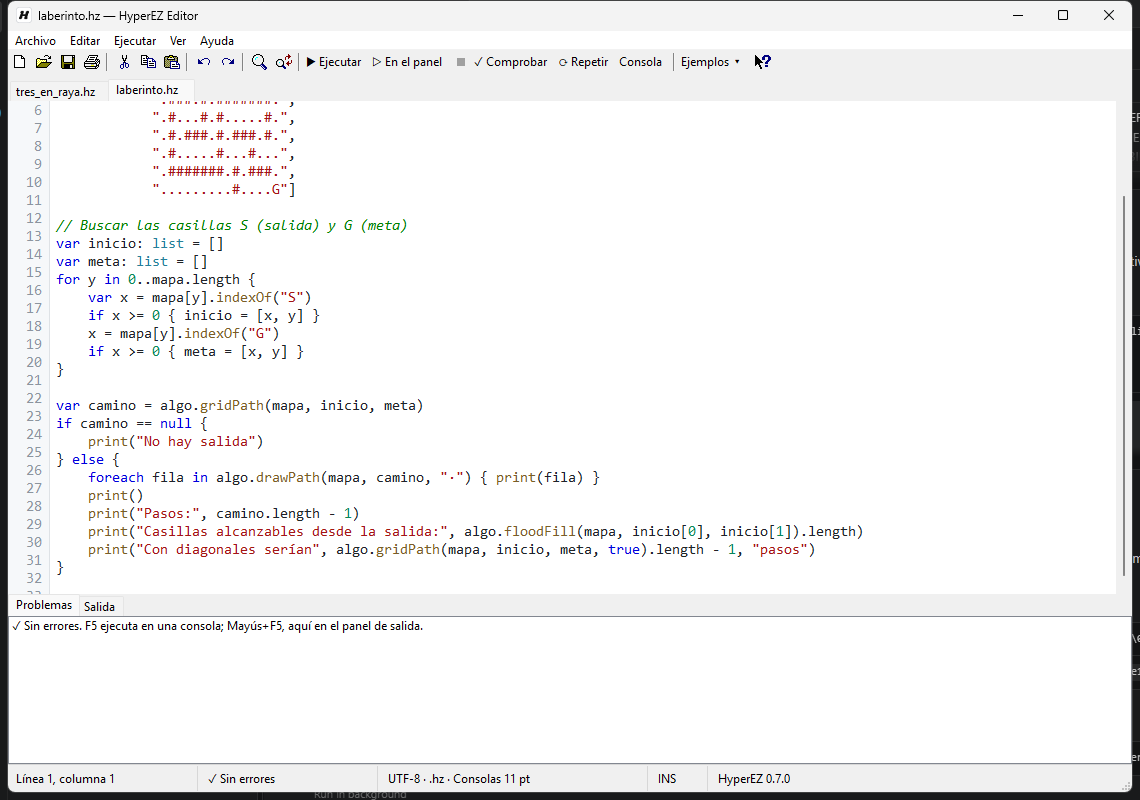
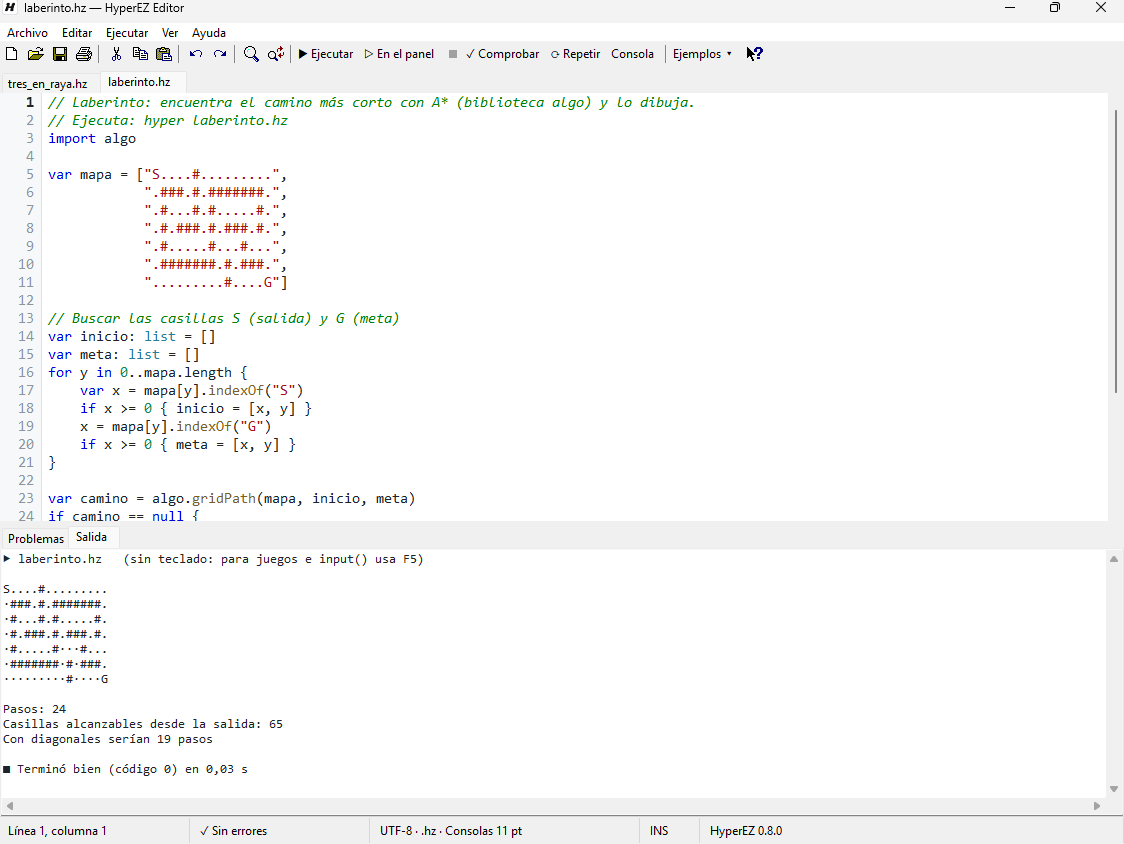
HyperEZ Editor: separador arrastrable y capturas de la 0.8.0
- El panel de abajo (Problemas y Salida) cambia de alto arrastrando la
  franja que lo separa del código; el alto se guarda con los ajustes.
- Capturas nuevas del editor y del instalador de la 0.8.0.
- build.ps1 ya no avisa al enlazar con LTO en Windows: una sola partición
  en el enlace final y ninguna en el ejecutable instrumentado de PGO.
- La documentación refleja que el repositorio ya es público.

diff --git a/src/editor/editor.cpp b/src/editor/editor.cpp
@@ -76,6 +76,9 @@ ITextDocument* g_doc = nullptr;
 int g_dpi = 96;
 int g_fontPt = 11;
 bool g_wrap = false, g_showPanel = true, g_showNumbers = true;
+int g_panelHeight = 170;            // alto del panel de abajo (en píxeles a 96 ppp)
+int g_splitTop = -1, g_splitBottom = -1; // franja del separador arrastrable (en la ventana)
+bool g_splitDrag = false;
 std::wstring g_file;   // vacío = sin título
 bool g_dirty = false;
 std::wstring g_savedText; // texto tal como está guardado (para saber si hay cambios)
@@ -204,6 +207,7 @@ void loadSettings() {
     g_showNumbers = readDword(L"LineNumbers", 1) != 0;
     g_showToolbar = readDword(L"Toolbar", 1) != 0;
     g_showStatus = readDword(L"StatusBar", 1) != 0;
+    g_panelHeight = (int)std::clamp<DWORD>(readDword(L"PanelHeight", 170), 60, 2000);
     {
         wchar_t face[LF_FACESIZE];
         DWORD fsz = sizeof face;
@@ -224,6 +228,7 @@ void saveSettings() {
     writeDword(L"LineNumbers", g_showNumbers);
     writeDword(L"Toolbar", g_showToolbar);
     writeDword(L"StatusBar", g_showStatus);
+    writeDword(L"PanelHeight", (DWORD)g_panelHeight);
     HKEY k;
     if (RegCreateKeyExW(HKEY_CURRENT_USER, kKey, 0, nullptr, 0, KEY_WRITE, nullptr, &k, nullptr) == ERROR_SUCCESS) {
         for (int i = 0; i < 10; i++) {
@@ -617,12 +622,19 @@ void layout() {
         MoveWindow(g_tabs, 0, top, rc.right, th, TRUE);
         top += th;
     }
-    int panelH = g_showPanel ? S(170) : 0;
+    // El panel de abajo se puede agrandar arrastrando el separador; el código conserva al menos S(80)
+    int gap = g_showPanel ? S(5) : 0;
+    int panelH = 0;
+    if (g_showPanel) panelH = std::max(S(60), std::min(S(g_panelHeight), (int)rc.bottom - statusH - top - gap - S(80)));
     int bottom = rc.bottom - statusH - panelH;
+    int editBottom = std::max(top, bottom - gap);
+    g_splitTop = g_showPanel ? editBottom : -1;
+    g_splitBottom = g_showPanel ? bottom : -1;
     int gw = gutterWidth();
-    MoveWindow(g_gutter, 0, top, gw, bottom - top, TRUE);
+    MoveWindow(g_gutter, 0, top, gw, editBottom - top, TRUE);
     ShowWindow(g_gutter, g_showNumbers ? SW_SHOW : SW_HIDE);
-    if (g_edit) MoveWindow(g_edit, gw, top, rc.right - gw, bottom - top, TRUE);
+    if (g_edit) MoveWindow(g_edit, gw, top, rc.right - gw, editBottom - top, TRUE);
+    if (g_showPanel) { RECT gr{0, editBottom, rc.right, bottom}; InvalidateRect(g_wnd, &gr, TRUE); } // la franja del separador
     if (g_bottomTabs) {
         ShowWindow(g_bottomTabs, g_showPanel ? SW_SHOW : SW_HIDE);
         int bh = tabStripHeight(g_bottomTabs, rc.right);
@@ -2096,6 +2108,51 @@ LRESULT CALLBACK wndProc(HWND h, UINT msg, WPARAM wp, LPARAM lp) {
         }
         case WM_SIZE: layout(); return 0;
         case WM_SETFOCUS: SetFocus(g_edit); return 0;
+        // Separador entre el código y el panel de abajo: se arrastra para cambiar el alto del panel
+        case WM_SETCURSOR:
+            if ((HWND)wp == h && LOWORD(lp) == HTCLIENT && g_splitTop >= 0) {
+                POINT pt;
+                GetCursorPos(&pt);
+                ScreenToClient(h, &pt);
+                if (pt.y >= g_splitTop && pt.y < g_splitBottom) { SetCursor(LoadCursorW(nullptr, IDC_SIZENS)); return TRUE; }
+            }
+            break;
+        case WM_LBUTTONDOWN:
+            if (g_splitTop >= 0 && GET_Y_LPARAM(lp) >= g_splitTop && GET_Y_LPARAM(lp) < g_splitBottom) {
+                g_splitDrag = true;
+                SetCapture(h);
+                return 0;
+            }
+            break;
+        case WM_MOUSEMOVE:
+            if (g_splitDrag) {
+                RECT rc;
+                GetClientRect(h, &rc);
+                int statusH = 0;
+                if (g_status && g_showStatus) { RECT sr; GetWindowRect(g_status, &sr); statusH = sr.bottom - sr.top; }
+                int px = (int)rc.bottom - statusH - GET_Y_LPARAM(lp) - S(2); // el ratón queda en medio de la franja
+                g_panelHeight = std::clamp(MulDiv(px, 96, g_dpi), 60, 2000);
+                layout();
+                UpdateWindow(h);
+                return 0;
+            }
+            break;
+        case WM_LBUTTONUP:
+            if (g_splitDrag) { ReleaseCapture(); return 0; }
+            break;
+        case WM_CAPTURECHANGED:
+            if (g_splitDrag) {
+                g_splitDrag = false;
+                // si el separador se soltó más allá del límite, guardar el alto que se ve de verdad
+                if (g_splitBottom >= 0) {
+                    RECT rc;
+                    GetClientRect(h, &rc);
+                    int statusH = 0;
+                    if (g_status && g_showStatus) { RECT sr; GetWindowRect(g_status, &sr); statusH = sr.bottom - sr.top; }
+                    g_panelHeight = std::clamp(MulDiv((int)rc.bottom - statusH - g_splitBottom, 96, g_dpi), 60, 2000);
+                }
+            }
+            return 0;
         case WM_TIMER:
             if (wp == TIMER_HIGHLIGHT) { KillTimer(h, TIMER_HIGHLIGHT); highlight(); }
             else if (wp == TIMER_CHECK) { KillTimer(h, TIMER_CHECK); checkProgram(); }

diff --git a/docs/herramientas/editor.md b/docs/herramientas/editor.md
@@ -37,6 +37,7 @@ Los programas nuevos se guardan como **`.hez`** en `Documentos\HyperEZ` (puedes 
 | **Fuente** | *Ver → Fuente…* elige cualquier fuente de ancho fijo (Consolas, Cascadia Mono, Courier New...). |
 | **INS / SOB** | la tecla Insert cambia entre insertar y sobrescribir; la barra de estado lo indica. |
 | **Barras** | *Ver* muestra u oculta la barra de herramientas, la de estado y el panel de problemas y salida. |
+| **Separador** | la franja entre el código y el panel de abajo se arrastra con el ratón para hacer el panel más alto o más bajo; el editor recuerda el alto. |
 | **Comentar (Ctrl+/)** y **duplicar línea (Ctrl+D)** | |
 | **Zoom** | Ctrl+rueda, Ctrl++ y Ctrl+-; Ctrl+0 vuelve al tamaño normal. Se recuerda para la próxima vez. |
 | **Plantillas** | *Archivo → Nuevo desde plantilla*: juego de consola, clase con pruebas, inteligencia artificial, servidor web, dibujar una imagen, leer un CSV. |
@@ -83,4 +84,4 @@ Es un programa de Windows nativo (`bin\hyperez-editor.exe`, en `src/editor/edito
 - *Ejecutar en el panel* lanza `hyper run` con la salida redirigida (sin colores, con `NO_COLOR=1`) y la va mostrando mientras llega.
 - La Ayuda abre la documentación en HTML que instala el instalador (`docs-html/`), en el navegador.
 
-Los ajustes (fuente, tamaño de letra, ajuste de línea, barras, paneles, archivos recientes y posición de la ventana) se guardan en `HKEY_CURRENT_USER\Software\HyperEZ\Editor`; el desinstalador los borra.
+Los ajustes (fuente, tamaño de letra, ajuste de línea, barras, paneles y su alto, archivos recientes y posición de la ventana) se guardan en `HKEY_CURRENT_USER\Software\HyperEZ\Editor`; el desinstalador los borra.

diff --git a/editors/linguist/README.md b/editors/linguist/README.md
@@ -8,7 +8,7 @@ Linguist solo acepta lenguajes que ya se usan en GitHub: piden que la extensión
 
 Cómo acercarse a esa cifra:
 
-- Publicar el repositorio de HyperEZ (ahora es privado) y los proyectos hechos con HyperEZ como repositorios públicos, con archivos `.hez`.
+- Publicar los proyectos hechos con HyperEZ como repositorios públicos, con archivos `.hez` (el repositorio de HyperEZ ya es público).
 - Animar a quienes lo usen a subir sus programas a GitHub.
 - Comprobar el número con la búsqueda de GitHub: `extension:hez NOT is:fork` y `extension:hz NOT is:fork`.
 
@@ -25,7 +25,7 @@ La gramática de colores es la de la extensión de VS Code: [`editors/vscode/syn
 
 ## Los pasos (cuando se cumpla el requisito)
 
-1. Haz público el repositorio de HyperEZ (Linguist necesita acceder a la gramática).
+1. Comprueba que el repositorio de HyperEZ sigue siendo público (Linguist necesita acceder a la gramática).
 2. Haz un *fork* de [github-linguist/linguist](https://github.com/github-linguist/linguist) y sigue su guía [CONTRIBUTING.md](https://github.com/github-linguist/linguist/blob/main/CONTRIBUTING.md#adding-a-language).
 3. Añade la gramática: `script/add-grammar https://github.com/cuevacaravacaadrian-ux/HyperEZ`.
 4. Copia la entrada de `languages.yml` en orden alfabético y ejecuta `script/update-ids`.

diff --git a/CHANGELOG.md b/CHANGELOG.md
@@ -2,6 +2,18 @@
 
 Todas las versiones de HyperEZ. El formato sigue [Keep a Changelog](https://keepachangelog.com/es-ES/1.1.0/).
 
+## [Sin publicar]
+
+### Añadido
+- HyperEZ Editor: el panel de abajo (*Problemas* y *Salida*) cambia de alto arrastrando el separador que lo une al código, y se recuerda.
+
+### Cambiado
+- Capturas del editor y del instalador de la 0.8.0 en el README y la documentación.
+- El repositorio ya es público: la documentación lo indica (kit de Linguist, publicar la extensión).
+
+### Arreglado
+- La compilación para Windows con `build.ps1` ya no avisa de "serial compilation of LTRANS jobs" al enlazar con LTO.
+
 ## [0.8.0] - 2026-11-04
 
 Descargas que funcionan, webs con el lenguaje, sintaxis nueva y un editor todavía más clásico.

diff --git a/editors/vscode/PUBLICAR.md b/editors/vscode/PUBLICAR.md
@@ -37,5 +37,5 @@ npx ovsx publish hyperez-0.8.0.vsix -p <token>
 ## Antes de publicar
 
 - Cambia `"publisher"` en `package.json` si tu ID no es `hyperez`. El identificador de la extensión pasa a ser `<publisher>.hyperez`: si tenías instalada la anterior, desinstálala para que no haya dos.
-- Las imágenes y enlaces del README deben ser accesibles públicamente: si el repositorio de GitHub es privado, los enlaces a él no se podrán abrir desde el Marketplace.
+- Las imágenes y enlaces del README deben ser accesibles públicamente (el repositorio de GitHub lo es): si algún día pasa a ser privado, los enlaces a él no se podrán abrir desde el Marketplace.
 - Comprueba el paquete: `npx vsce ls` lista los archivos que incluye.
